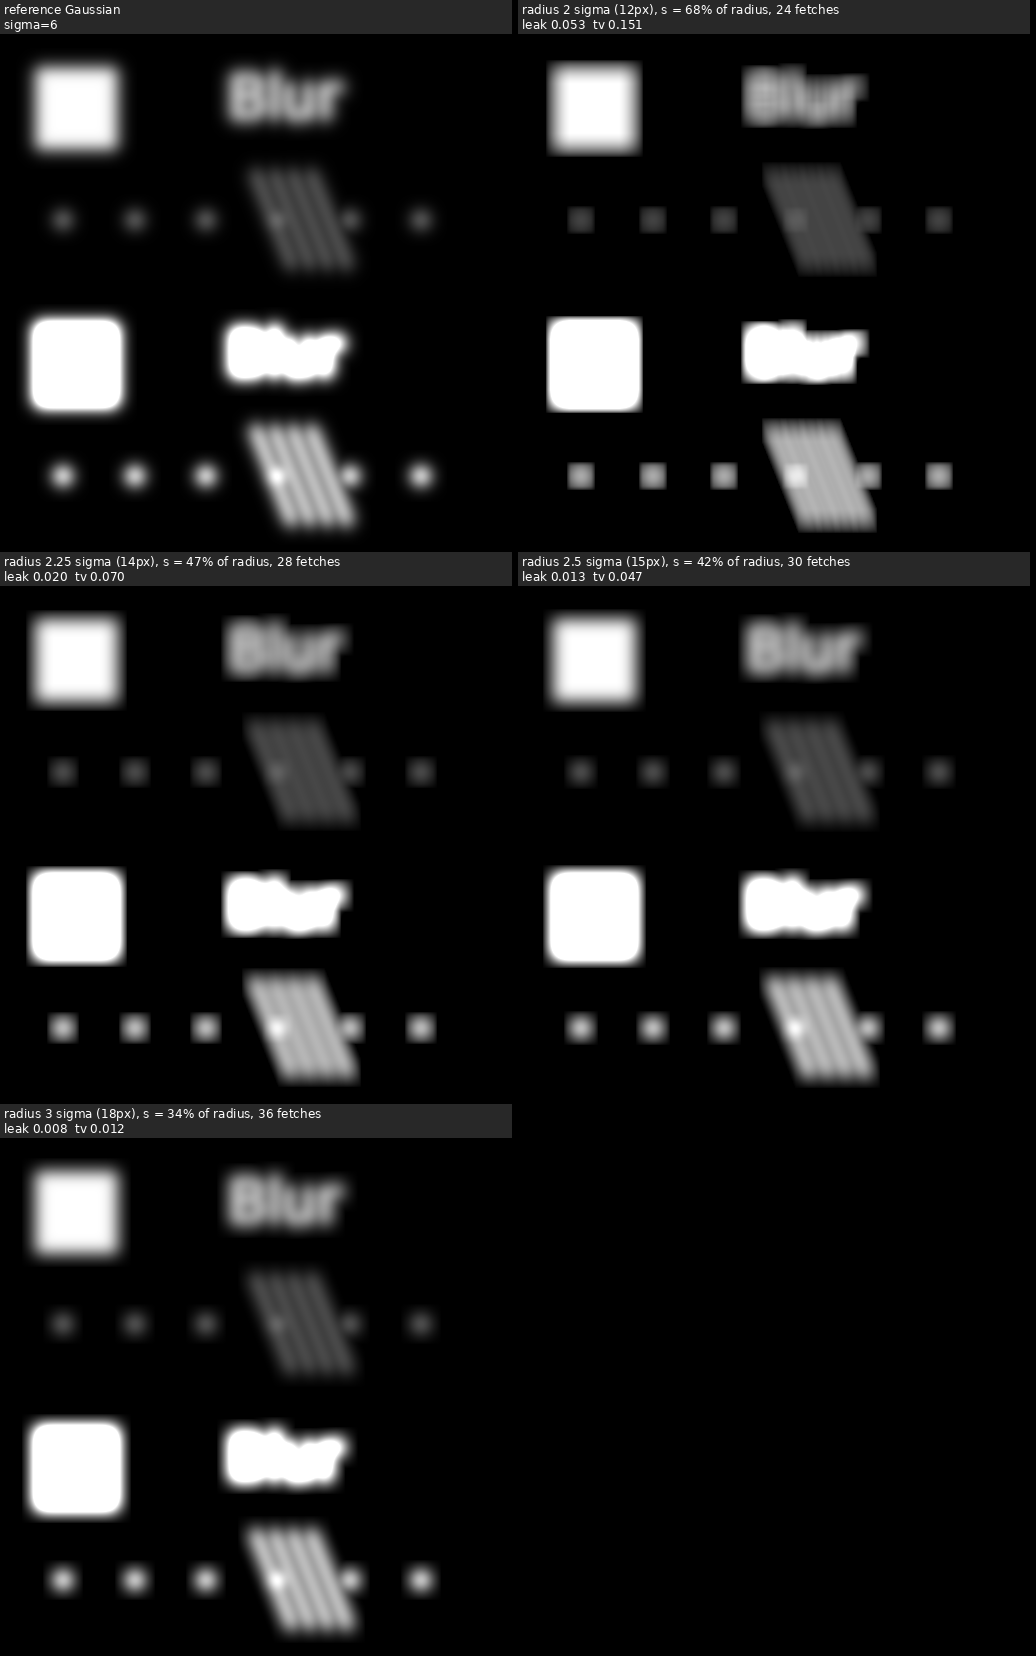
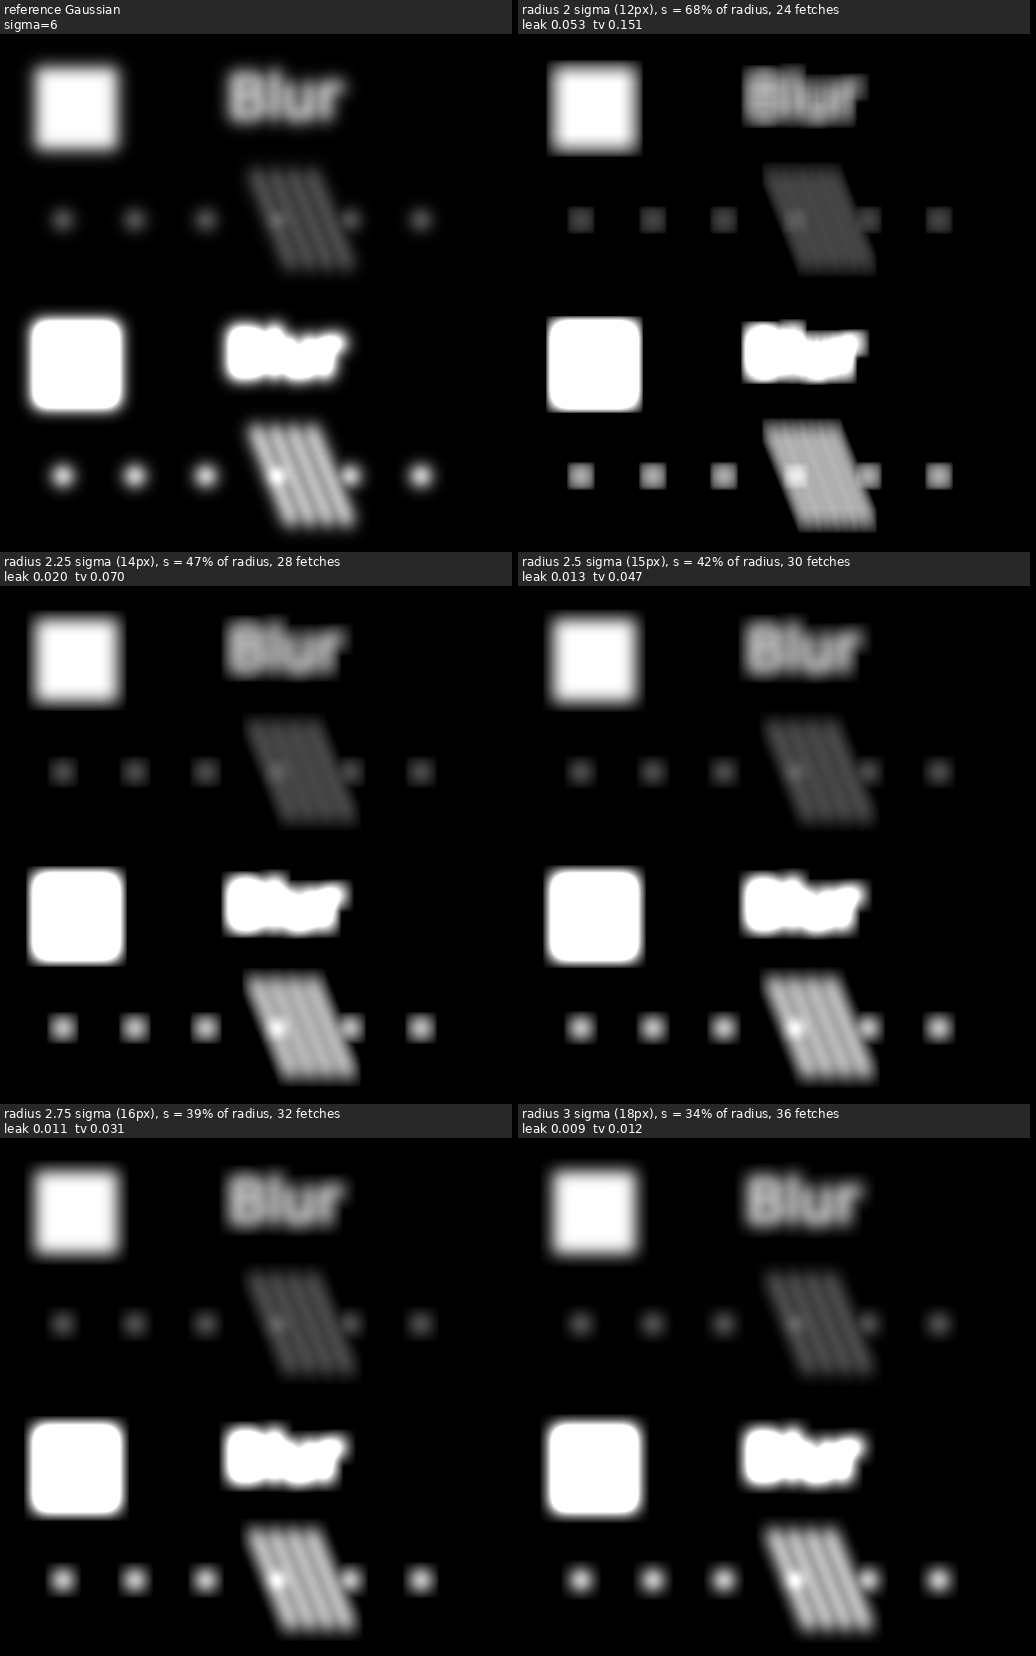
Recalibrate profiles: medium = 2.75 sigma truncation, loose = 2.5 sigma
Claude-Session: https://claude.ai/code/session_01VxqUdH12h9KK8TAUmqp5bo

diff --git a/topt/search.py b/topt/search.py
@@ -76,14 +76,18 @@ PROFILES = {
     # k=3 chain (0.31) not.
     # phase: k=3 chain (0.097) looked fine and no method flickered visibly in
     # the fine-detail motion test, so shift variance is limited mainly by block.
-    # iso (provisional): the same truncation panels score 0.008 (3 sigma),
-    # ~0.03 (2.5 sigma) and ~0.045 (2.25 sigma).
+    # Second look (isotropy.png, sigma 16): 3 sigma "barely see it", 2.5 sigma
+    # "visible if you look, acceptable for some things", 2.25 "would not use",
+    # 2.75 expected fine -> medium moved to the 2.75 sigma truncation (leak
+    # 0.008-0.012, tv 0.026-0.031, curv 0.25-0.39, iso 0.015-0.018), loose to
+    # 2.5 sigma. Pinwheel chain pw9x3 (block 0.35) and down 8 | up 8 p4 (iso
+    # 0.029, block 0.26) look fine; pw9x2 (block 1.55) does not.
     "strict": {"leak": 0.01, "tv": 0.02, "curv": 0.2, "block": 0.1, "aniso": 0.03, "phase": 0.01,
                "iso": 0.01, "sigma_err": 0.02},
-    "medium": {"leak": 0.015, "tv": 0.055, "curv": 0.7, "block": 0.35, "aniso": 0.03, "phase": 0.10,
+    "medium": {"leak": 0.012, "tv": 0.032, "curv": 0.4, "block": 0.35, "aniso": 0.03, "phase": 0.10,
                "iso": 0.032, "sigma_err": 0.02},
-    "loose": {"leak": 0.02, "tv": 0.10, "curv": 1.7, "block": 0.45, "aniso": 0.05, "phase": 0.15,
-              "iso": 0.046, "sigma_err": 0.03},
+    "loose": {"leak": 0.015, "tv": 0.055, "curv": 0.7, "block": 0.45, "aniso": 0.05, "phase": 0.15,
+              "iso": 0.04, "sigma_err": 0.03},
 }
 
 

diff --git a/scripts/calibrate.py b/scripts/calibrate.py
@@ -84,7 +84,7 @@ def reference(sigma: float):
 def truncation(sigma: float = 6.0):
     img = scene(512, 256, sigma)
     panels = [panel(run(reference(sigma), img), f"reference Gaussian\nsigma={sigma:g}")]
-    for k in (1.75, 2.0, 2.25, 2.5, 3.0):
+    for k in (2.0, 2.25, 2.5, 2.75, 3.0):
         pl = sep_bilinear_trunc(sigma, k)
         if pl is None:
             continue
